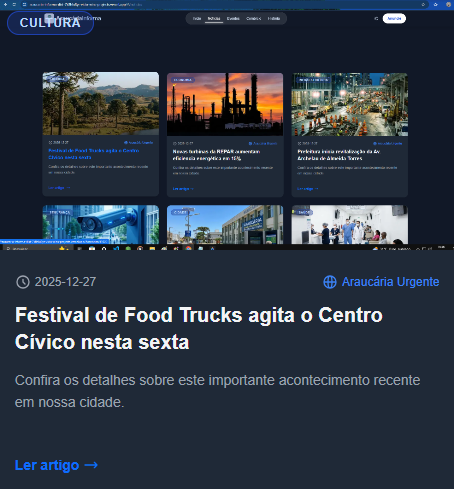
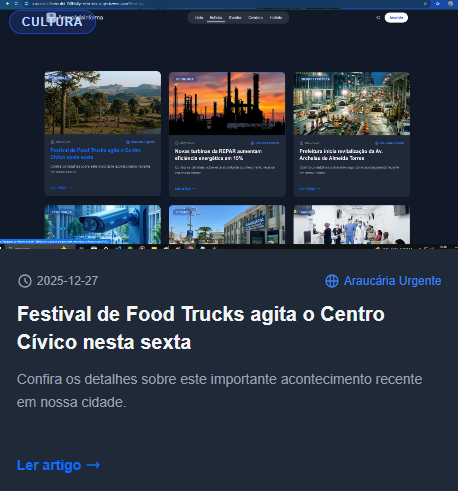
Atualizacao automatica pelo script do usuario

diff --git a/services/api.ts b/services/api.ts
@@ -36,8 +36,21 @@ export const api = {
 
             const uniqueNews = Array.from(new Map(allNews.map(item => [item.title, item])).values());
 
+            // 4. SANITIZAÇÃO DE DADOS (Correção de Imagens Hotfix)
+            // Garante que a notícia do Food Truck tenha a capa correta, independente da fonte (Cache/DB/AI)
+            const sanitizedNews = uniqueNews.map(item => {
+                if (item.title && item.title.toLowerCase().includes('food truck')) {
+                    // Força a imagem correta (raw png) e adiciona query de cache para garantir refresh
+                    return {
+                        ...item,
+                        imageUrl: '/images/food_trucks_cover_final.png?v=final_v2'
+                    };
+                }
+                return item;
+            });
+
             // Ordena por data (mais recente primeiro) e limita a 100 itens (~10 páginas)
-            return uniqueNews
+            return sanitizedNews
                 .sort((a, b) => new Date(b.publishDate).getTime() - new Date(a.publishDate).getTime())
                 .slice(0, 100) as NewsArticle[];
 

diff --git a/components/NewsCard.tsx b/components/NewsCard.tsx
@@ -37,18 +37,10 @@ const NewsCard: React.FC<NewsCardProps> = ({ article }) => {
 
     // Reseta os estados se a prop article mudar (ex: paginação ou filtro)
     useEffect(() => {
-        let finalUrl = getOptimizedImageUrl(article.imageUrl, 640);
-
-        // Override específico para Food Truck (Correção Hotfix)
-        if (article.title.toLowerCase().includes('food truck')) {
-            // Usa query param v=new para forçar refresh de cache
-            finalUrl = '/images/food_trucks_cover_final.png?v=new';
-        }
-
-        setImgSrc(finalUrl);
+        setImgSrc(getOptimizedImageUrl(article.imageUrl, 640));
         setIsFallback(false);
         setHasError(false);
-    }, [article.imageUrl, article.title]);
+    }, [article.imageUrl]);
 
     const handleError = () => {
         if (!isFallback) {

diff --git a/services/imageUtils.ts b/services/imageUtils.ts
@@ -26,8 +26,9 @@ export const getOptimizedImageUrl = (url: string, width: number = 800, quality: 
 
             if (lastDotIndex !== -1) {
                 const basePath = cleanUrl.substring(0, lastDotIndex);
+                const queryParams = url.includes('?') ? '?' + url.split('?')[1] : '';
                 // Retorna a versão mobile (que é garantidamente .webp e < 50kb na maioria dos casos)
-                return `${basePath}_mobile.webp`;
+                return `${basePath}_mobile.webp${queryParams}`;
             }
         }
         return url;
